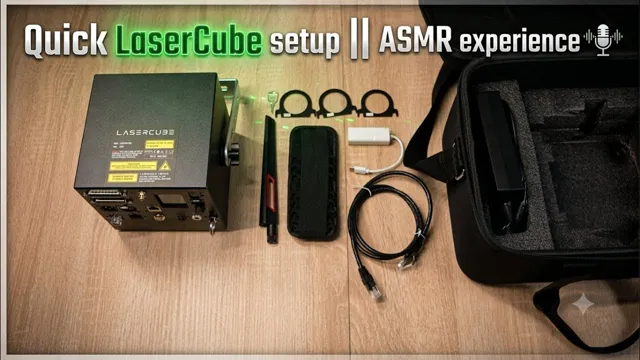
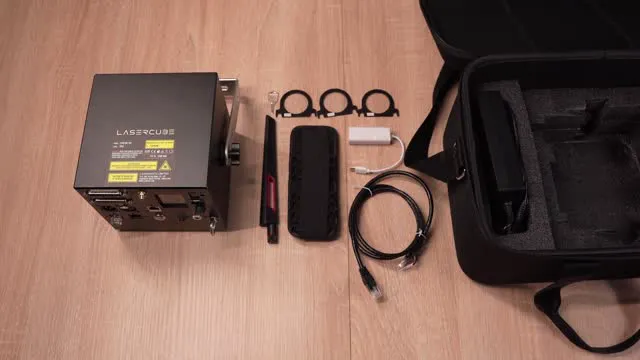
Academy: second round of session-review fixes for the new videos
- Start here 8: the "a zone doesn't protect people" line is a warning box
  above the safety-zone video instead of small print under it.
- Start here 7: drop the repeated firmware note under the set-up video
  (step 3 and the connection-modes note already say it); restore the
  space between data-to and data-title.
- 43I90I3XcZk thumbnail: a real frame from the video (0:21, the kit laid
  out) instead of YouTube's thumbnail, which carries an AI-tool watermark.

diff --git a/academy/start-here/index.html b/academy/start-here/index.html
@@ -691,12 +691,11 @@
     <li>With the interlock closed and the key on (lesson 6: jumper in and key on, or with an E‑Stop the E‑Stop start done), turn the laser on from LaserOS’s power menu. On a computer, the ESC key turns it off again.</li>
   </ol>
 
-  <div class="video" data-yt="43I90I3XcZk" data-to="166"data-title="The Ultimate Portable Laser Setup, LaserCube Ultra MK2 (ASMR Walkthrough)">
+  <div class="video" data-yt="43I90I3XcZk" data-to="166" data-title="The Ultimate Portable Laser Setup, LaserCube Ultra MK2 (ASMR Walkthrough)">
     <button type="button" aria-label="Play video: portable LaserCube set-up, a walkthrough without talking"><span class="play"><svg><use href="#i-play"/></svg></span></button>
     <img src="../../images/home/videos/43I90I3XcZk.webp" alt="" width="640" height="360" loading="lazy">
   </div>
   <p class="video-meta"><span>The whole set‑up, no talking: unpack, arm, connect by WiFi and by cable, pack up</span><a href="https://www.youtube.com/watch?v=43I90I3XcZk" target="_blank" rel="noopener">Watch on YouTube</a></p>
-  <p class="small video-note">Filmed on firmware 2.0 or older. On firmware 2.1 and later, changing the connection mode doesn’t restart the cube.</p>
 
   <h3>When WiFi isn’t good enough</h3>
   <ul class="points">
@@ -773,12 +772,15 @@
   <p>If the built‑in block can’t mask an angle you need, fix a piece of black foil (cinefoil) to the cube at the edge of the aperture, clear of the vents. Gaffer tape on its own is no beam block: a laser cuts right through it.</p>
 
   <h3>Keep‑within and keep‑out zones</h3>
+  <div class="warn">
+    <span class="warn-tag"><svg class="icon"><use href="#i-warn"/></svg>A zone doesn’t protect people</span>
+    <p>The video below cuts a zone around a face drawn on a box and calls it “absolutely safe”. It isn’t: a zone never makes it safe to aim at people. Never aim a LaserCube at people, zone or not.</p>
+  </div>
   <div class="video" data-yt="0CMHLSTWcWY" data-from="50" data-title="LaserCube and LaserOS Safety Zones - How to set them up?">
     <button type="button" aria-label="Play video: LaserCube and LaserOS safety zones, how to set them up"><span class="play"><svg><use href="#i-play"/></svg></span></button>
     <img src="../../images/home/videos/0CMHLSTWcWY.webp" alt="" width="640" height="360" loading="lazy">
   </div>
   <p class="video-meta"><span>LaserCube and LaserOS safety zones</span><a href="https://www.youtube.com/watch?v=0CMHLSTWcWY&amp;t=50s" target="_blank" rel="noopener">Watch on YouTube</a></p>
-  <p class="small video-note">The video cuts a zone around a face drawn on a box and calls it “absolutely safe”. A zone never makes it safe to aim at people: never aim a LaserCube at people, zone or not.</p>
   <ul class="points">
     <li>A <strong>keep‑within</strong> zone (the default) marks where beams may go. Its preview outline is green. Use it for the target area where beams can safely end.</li>
     <li>Turn on <strong>invert</strong> and it becomes a <strong>keep‑out</strong> zone, with a red preview outline. Use it to keep beams off something, such as a camera or a video projector.</li>
